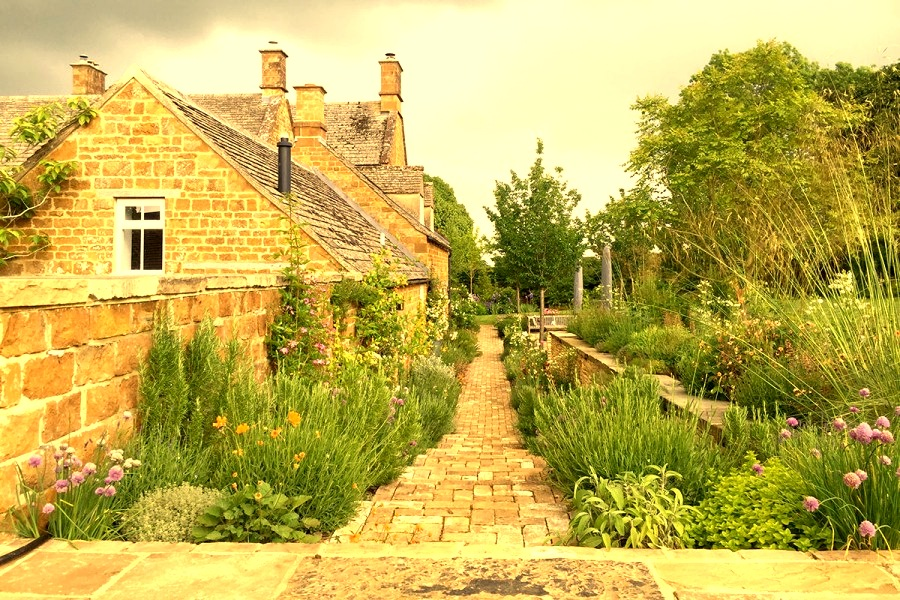
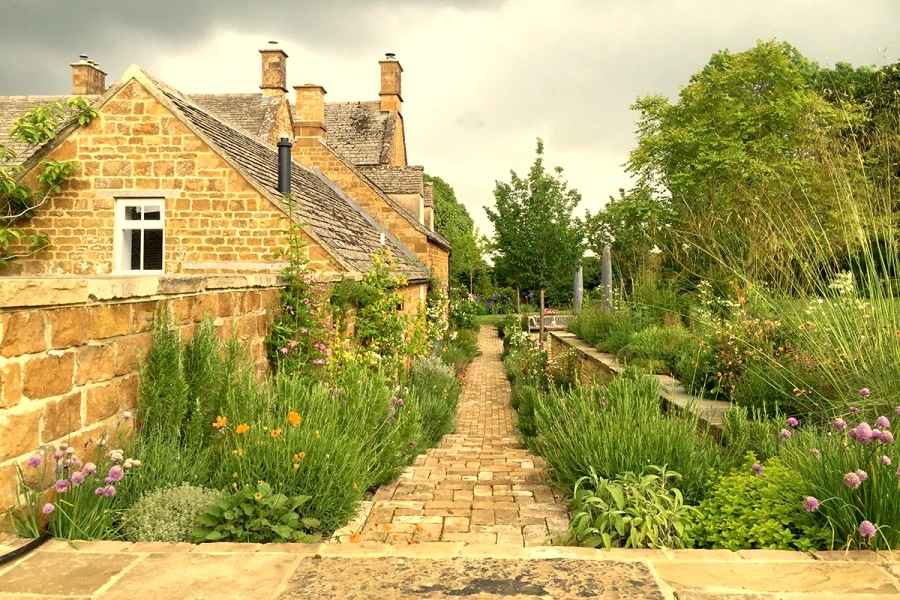
Subtler golden grade, drop cloudy wheat slide
Claude-Session: https://claude.ai/code/session_0116ez5pmVSqE13isgJh2Uw5

diff --git a/assets/css/site.css b/assets/css/site.css
@@ -395,3 +395,6 @@ body{background:var(--chalk)}
 @media (prefers-reduced-motion:reduce){.stage__slide{animation:none;opacity:0}.stage__slide:first-of-type{opacity:1}}
 
 .stage--photo .stage__veil{background:linear-gradient(rgba(220,150,70,.07),rgba(220,150,70,.07)),linear-gradient(90deg,rgba(40,24,12,.5) 0%,rgba(40,24,12,.24) 55%,rgba(40,24,12,.04) 100%)}
+@keyframes slide5{0%{opacity:0;transform:scale(1)}4%{opacity:1}20%{opacity:1}24%{opacity:0;transform:scale(1.06)}100%{opacity:0;transform:scale(1.06)}}
+.stage__slide{animation:slide5 35s linear infinite;animation-delay:calc(var(--i) * 7s - 1.7s)}
+@media (prefers-reduced-motion:reduce){.stage__slide{animation:none;opacity:0}.stage__slide:first-of-type{opacity:1}}
